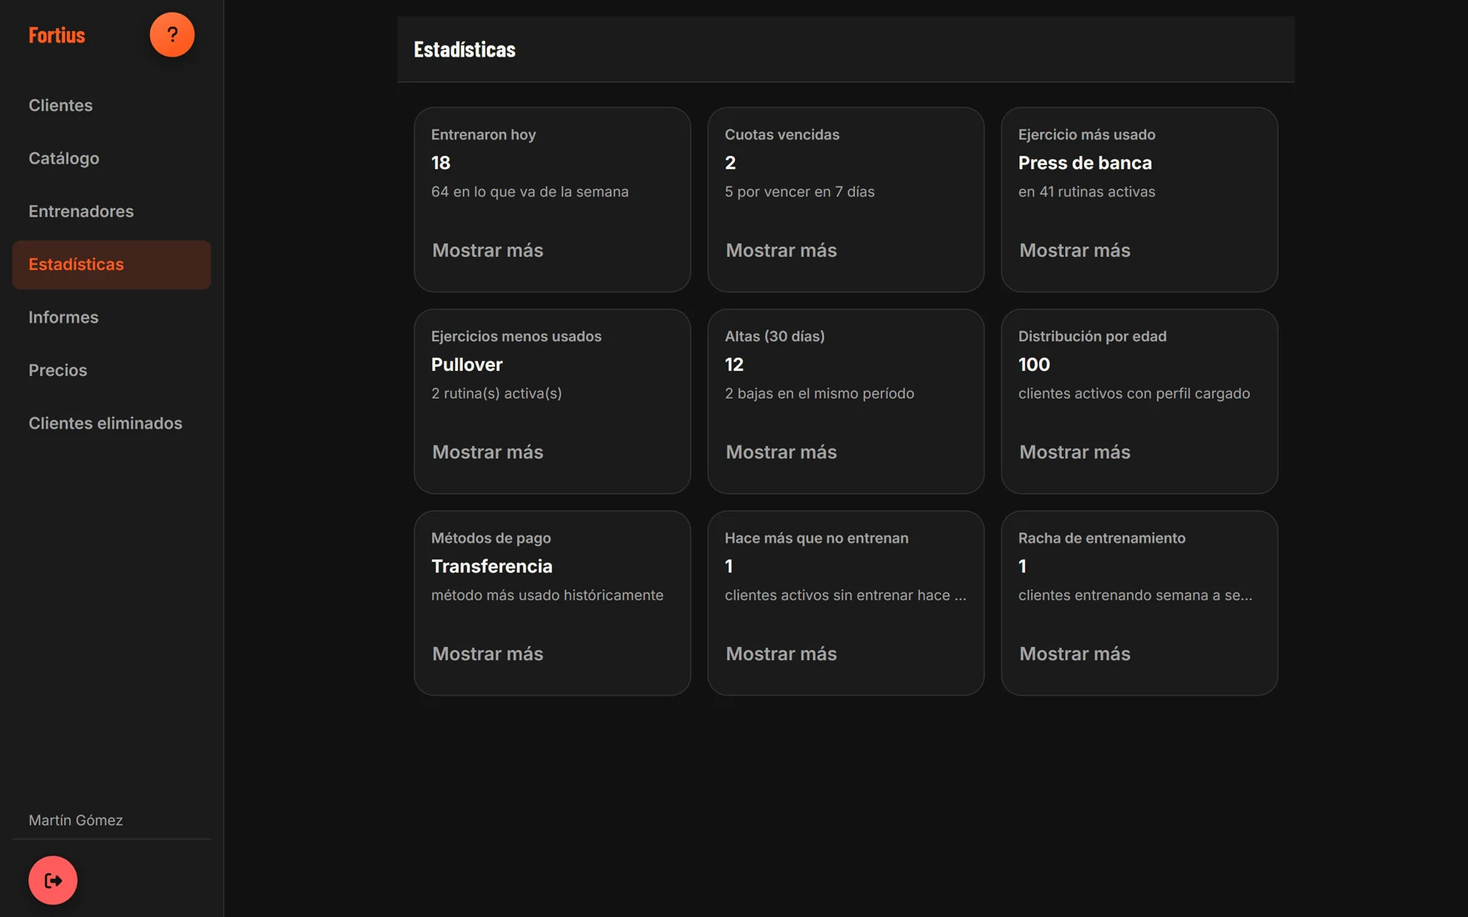
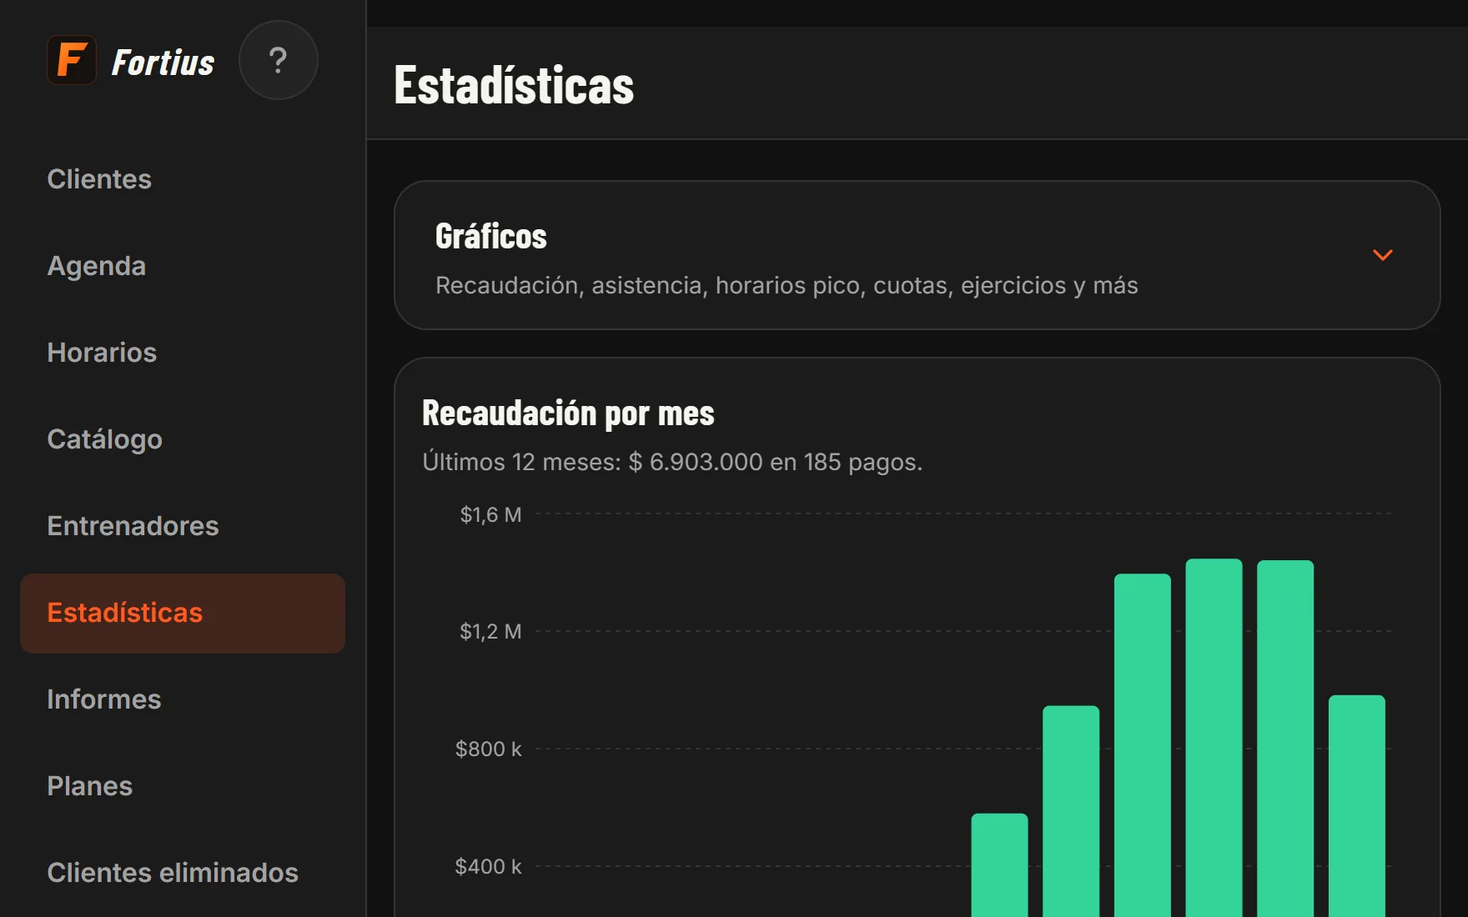
Novedades de la app: paquetes extra, gráficos y capturas nuevas
- Nueva sección "Paquetes extra" con Turnos y horarios (precio fijo por
  mes, a definir), capturas de la agenda y de "Mis turnos", y una tarjeta
  para pedir paquetes nuevos por WhatsApp.
- Nueva sección "Gráficos de tu gimnasio" con recaudación, días y horarios
  pico, estado de cuotas y altas y bajas.
- Portada con la pantalla nueva de Estadísticas y sus gráficos.
- Alumno: tarjeta "Su asistencia" (actividad, racha y calendario del mes)
  y la app instalable con el ícono del gimnasio y avisos.
- Planes por actividad y combos en el panel, el precio y las preguntas.

diff --git a/index.html b/index.html
@@ -4,7 +4,7 @@
 <meta charset="utf-8">
 <meta name="viewport" content="width=device-width, initial-scale=1, viewport-fit=cover">
 <title>Fortius: software para gimnasios y sus profes</title>
-<meta name="description" content="Fortius es el software para gimnasios: rutinas con un QR por rutina, cuotas, estadísticas e informe mensual en PDF. 20 días gratis, después lo mismo que 2 a 5 cuotas de tu gimnasio por mes.">
+<meta name="description" content="Fortius es el software para gimnasios: rutinas con un QR por rutina, planes por actividad, cuotas, estadísticas e informe mensual en PDF. 20 días gratis, después lo mismo que 2 a 5 cuotas de tu gimnasio por mes.">
 <meta name="site-kind" content="software">
 <meta name="page-type" content="software">
 <link rel="icon" type="image/svg+xml" href="assets/app/fortius.svg">
@@ -108,7 +108,14 @@
   /* pasos: capturas reales de la app en el panel de cada tarjeta */
   #rutinas .panel { --p-h: 336px; background: #121212; }
   @media (min-width: 640px) and (max-width: 1023px) { #rutinas { --h: 2; } }
-  @media (min-width: 1024px) { #rutinas .grid > .card, #alumno .grid > .card { grid-column: auto / span 4; } }
+  @media (min-width: 1024px) { #rutinas .grid > .card { grid-column: auto / span 4; } }
+  /* alumno: 4 capturas del celular. Desde 1280px, las cuatro en fila; entre 1024 y 1279px, de a dos con la
+     captura al ancho de un celular */
+  @media (min-width: 1280px) { #alumno .grid > .card { grid-column: auto / span 3; } }
+  @media (min-width: 1024px) and (max-width: 1279px) {
+    #alumno .grid > .card { grid-column: auto / span 6; }
+    #alumno .card > .panel { width: 300px; max-width: 100%; margin-inline: auto; }
+  }
   @media (min-width: 1024px) and (max-width: 1279px) { #rutinas .panel { --p-h: 250px; } }
   @media (max-width: 639px) { #rutinas .panel { --p-h: 260px; } }
   #rutinas .panel .frame__img { object-fit: cover; object-position: left top; }
@@ -124,6 +131,20 @@
   @media (min-width: 640px) and (max-width: 1023px) {
     #alumno .card > .panel { width: 320px; max-width: 100%; margin-inline: auto; }
   }
+  /* gráficos: cada tarjeta de la app entera (ya trae su fondo y su borde), sin recortes */
+  #graficos .card { background: transparent; border: 0; padding: 0; box-shadow: none; }
+  #graficos .card > .panel { --p-h: 0px; min-height: 0; flex: none; margin: 0; border-radius: 16px; background: #121212; box-shadow: 0 0 0 1px rgb(255 255 255 / .06); }
+  #graficos .panel .frame__img { position: static; display: block; width: 100%; height: auto; }
+  #graficos .panel::before, #graficos .panel::after { display: none; }
+  @media (min-width: 640px) { #graficos .grid > .card { grid-column: auto / span 6; } }
+
+  /* paquetes extra: la agenda (computadora) y "Mis turnos" (celular) dentro de sus tarjetas */
+  #extras .panel { background: #121212; }
+  #extras .panel::before, #extras .panel::after { display: none; }   /* sin el brillo del panel sobre la captura */
+  #extras .panel .frame__img { object-fit: cover; object-position: left top; }
+  #extras .panel--cel .frame__img { object-fit: contain; object-position: center top; }
+  @media (min-width: 1024px) { #extras .panel { --p-h: 380px; } }
+
   /* el QR entero, centrado sobre el mismo fondo del modal de la app (antes el recorte lo cortaba a la derecha) */
   #rutinas .panel--qr { background: #1b1b1b; }
   #rutinas .panel--qr .frame__img { object-fit: contain; object-position: center; }
@@ -169,7 +190,7 @@
   h2, .t-h2 { font-size: calc(var(--t-h2) * 1.18); line-height: 1.02; }
   .step-num { font-family: var(--font-display); font-weight: 700; }
 
-  /* franjas oscuras (el mundo de la app: fondo casi negro, naranja): Videos y "Lo que ve tu alumno",
+  /* franjas oscuras (el mundo de la app: fondo casi negro, naranja): Videos, "Lo que ve tu alumno" y Gráficos,
      alternadas con las claras. Las capturas oscuras del celular dejan de ser rectángulos negros sobre
      beige y pasan a fundirse con el fondo. */
   #videos .card, #alumno .card { background: var(--p-inv-surface); border-color: rgb(255 255 255 / .08); }
@@ -228,7 +249,7 @@
      deal: hero centred, nav nav-centre (nav-cards redealt: no photographs), close close-type, footer footer-columns,
            rhythm dark-band (the chapter), buttons solid, mark: the client's own logo (the F from the app), ground sage,
            effect grain-gradient in the hero window, moments none
-     screens: hero 1 · panel (app-frame) 1 · rutinas (steps) 1 · alumno (steps, capturas del celular) 1 · informes (chapter, dark band) 1 · preguntas (faq) 1 · footer.closing 1 -->
+     screens: hero 1 · panel (app-frame) 1 · rutinas (steps) 1 · alumno (steps, capturas del celular) 1 · informes (chapter) 1 · graficos (dark band, capturas de gráficos) 1 · extras (paquetes extra, plan cards) 1 · precio 1 · preguntas (faq) 1 · footer.closing 1 -->
 
 <header class="nav nav--centre">
   <div class="wrap nav__bar">
@@ -239,6 +260,7 @@
       <div class="nav__item"><a class="nav__link" href="#rutinas">Rutinas</a></div>
       <div class="nav__item"><a class="nav__link" href="#alumno">Alumno</a></div>
       <div class="nav__item"><a class="nav__link" href="#informes">Informes</a></div>
+      <div class="nav__item"><a class="nav__link" href="#extras">Extras</a></div>
       <div class="nav__item"><a class="nav__link" href="#precio">Precio</a></div>
       <div class="nav__item"><a class="nav__link" href="#preguntas">Preguntas</a></div>
     </nav>
@@ -275,35 +297,35 @@
     <div class="wrap">
       <div class="grid grid--top">
         <h2 class="span-5" id="panel-h">Cada alumno, su cuota y sus rutinas</h2>
-        <p class="span-6 start-7 muted">Buscás al alumno, ves si la cuota está al día y marcás el pago con el precio de su plan ya cargado. <a class="link" href="#preguntas">Ver cómo se cobra</a></p>
+        <p class="span-6 start-7 muted">Armás tus actividades (Musculación, Pilates, Spinning) con sus planes y descuentos por combo. Buscás al alumno, ves si la cuota está al día y marcás el pago con el monto de sus planes ya sumado. <a class="link" href="#preguntas">Ver cómo se cobra</a></p>
       </div>
-      <div class="ui app fill" data-visual role="img" aria-label="La lista de alumnos con el estado de su cuota y el perfil de Diego Ruiz con el pago de hoy marcado">
+      <div class="ui app fill" data-visual role="img" aria-label="La lista de alumnos con sus planes por actividad y el estado de su cuota, y el perfil de Diego Ruiz con el pago de hoy marcado">
         <div class="app__pane app__pane--list" aria-hidden="true">
           <div class="fx-bar"><b>Clientes</b><span class="sp"></span><small>100 activos</small></div>
           <div class="fx-busca">Buscar por nombre</div>
-          <div class="fx-fila is-on"><b>Diego Ruiz</b><span>Fijo, 3 días por semana</span><span class="fx-chip fx-chip--ok">Al día</span></div>
-          <div class="fx-fila"><b>Sofía Paz</b><span>Pase libre</span><span class="fx-chip fx-chip--venc">Vencida</span></div>
-          <div class="fx-fila"><b>Lucía Fernández</b><span>Fijo, 3 días por semana</span><span class="fx-chip fx-chip--ok">Al día</span></div>
-          <div class="fx-fila"><b>Tomás Gil</b><span>Fijo, 2 días por semana</span><span class="fx-chip fx-chip--venc">Vencida</span></div>
-          <div class="fx-fila"><b>Martina Ríos</b><span>Fijo, 4 días por semana</span><span class="fx-chip fx-chip--pv">Vence en 3 días</span></div>
-          <div class="fx-fila"><b>Nicolás Vega</b><span>Pase libre</span><span class="fx-chip fx-chip--ok">Al día</span></div>
-          <div class="fx-fila"><b>Camila Sosa</b><span>Fijo, 2 días por semana</span><span class="fx-chip fx-chip--ok">Al día</span></div>
-          <div class="fx-fila"><b>Julián Moreno</b><span>Fijo, 3 días por semana</span><span class="fx-chip fx-chip--pv">Vence en 6 días</span></div>
-          <div class="fx-fila"><b>Valentina Luna</b><span>Pase libre</span><span class="fx-chip fx-chip--ok">Al día</span></div>
+          <div class="fx-fila is-on"><b>Diego Ruiz</b><span>Musculación 3 días + Pilates 2 días</span><span class="fx-chip fx-chip--ok">Al día</span></div>
+          <div class="fx-fila"><b>Sofía Paz</b><span>Musculación, pase libre</span><span class="fx-chip fx-chip--venc">Vencida</span></div>
+          <div class="fx-fila"><b>Lucía Fernández</b><span>Pilates 3 días</span><span class="fx-chip fx-chip--ok">Al día</span></div>
+          <div class="fx-fila"><b>Tomás Gil</b><span>Musculación 2 días</span><span class="fx-chip fx-chip--venc">Vencida</span></div>
+          <div class="fx-fila"><b>Martina Ríos</b><span>Spinning 2 días + Musculación 2 días</span><span class="fx-chip fx-chip--pv">Vence en 3 días</span></div>
+          <div class="fx-fila"><b>Nicolás Vega</b><span>Musculación, pase libre</span><span class="fx-chip fx-chip--ok">Al día</span></div>
+          <div class="fx-fila"><b>Camila Sosa</b><span>Spinning 3 días</span><span class="fx-chip fx-chip--ok">Al día</span></div>
+          <div class="fx-fila"><b>Julián Moreno</b><span>Musculación 3 días</span><span class="fx-chip fx-chip--pv">Vence en 6 días</span></div>
+          <div class="fx-fila"><b>Valentina Luna</b><span>Pilates 2 días</span><span class="fx-chip fx-chip--ok">Al día</span></div>
         </div>
         <div class="app__pane app__pane--open" aria-hidden="true">
-          <div class="fx-bar"><b>Diego Ruiz</b><span class="sp"></span><small>Documento 32456789</small></div>
+          <div class="fx-bar"><b>Diego Ruiz</b><span class="sp"></span><small>Musculación 3 días + Pilates 2 días</small></div>
           <div class="fx-abierto">
             <div class="fx-tarjeta">
               <h4>Cuota</h4>
               <div class="fx-campos">
-                <div class="fx-campo">Monto cobrado ($)<div>40000</div></div>
+                <div class="fx-campo">Monto cobrado ($)<div>58500</div></div>
                 <div class="fx-campo">Método de pago<div>Transferencia</div></div>
               </div>
               <div class="fx-botones"><span class="fx-btn fx-btn--primario">Marcar como pagado</span><span class="fx-txt">Deshacer último pago</span></div>
               <div class="fx-pagos">
-                <div class="is-new">05/11/2026<span>$ 40.000 · Transferencia</span></div>
-                <div>02/10/2026<span>$ 40.000 · Efectivo</span></div>
+                <div class="is-new">05/11/2026<span>$ 58.500 · Transferencia</span></div>
+                <div>02/10/2026<span>$ 58.500 · Efectivo</span></div>
                 <div>01/09/2026<span>$ 38.000 · Efectivo</span></div>
                 <div>01/08/2026<span>$ 38.000 · Efectivo</span></div>
               </div>
@@ -378,13 +400,18 @@
     <div class="wrap">
       <div class="grid grid--top">
         <h2 class="span-5" id="alumno-h">Lo que ve tu alumno en su celular</h2>
-        <p class="span-6 start-7 muted">Entra con el QR y su documento, sin instalar nada. Desde ahí ve sus rutinas, su progreso y sus pagos.</p>
+        <p class="span-6 start-7 muted">Entra con el QR y su documento, sin descargar nada. Si quiere, la agrega al inicio del celular con el ícono de tu gimnasio y le llegan avisos, como cuando le cargás una rutina nueva. Ver cuántos días vino lo ayuda a no cortar la racha.</p>
       </div>
       <div class="grid" style="margin-top: var(--s-7)">
         <article class="card card--row span-4">
           <h3>Sus rutinas del día</h3>
           <p>Elige la rutina de hoy y ve cuándo vence su cuota.</p>
           <div class="panel"><img class="frame__img" src="assets/app/alumno-rutinas.webp" alt="Mis rutinas en el celular de Diego: Empuje, Tracción y Piernas, con 6 días para el vencimiento de su cuota" width="640" height="1359" loading="lazy" data-source="client" data-subject="Fortius, rutinas del alumno"></div>
+        </article>
+        <article class="card card--row span-4">
+          <h3>Su asistencia</h3>
+          <p>Los días que vino este mes y esta semana, su racha y el calendario del mes.</p>
+          <div class="panel"><img class="frame__img" src="assets/app/alumno-asistencia.webp" alt="Tu actividad en el celular de Natalia: 8 días este mes, 4 esta semana, racha de 24 semanas y 2,6 días por semana, con el calendario de noviembre debajo" width="640" height="1360" loading="lazy" data-source="client" data-subject="Fortius, asistencia del alumno"></div>
         </article>
         <article class="card card--row span-4">
           <h3>Su progreso</h3>
@@ -404,7 +431,7 @@
     <div class="wrap">
       <div class="grid grid--top">
         <h2 class="span-5" id="informes-h">Estadísticas e informe del mes</h2>
-        <p class="span-6 start-7 muted">Quién entrenó hoy, quién debe la cuota y quién dejó de venir. Cada mes se cierra solo en un informe que bajás en PDF. <a class="link" href="#preguntas">Ver qué incluye</a></p>
+        <p class="span-6 start-7 muted">Quién entrenó hoy, quién debe la cuota y quién dejó de venir, con gráficos de recaudación, altas y bajas y horarios pico. Cada mes se cierra solo en un informe que bajás en PDF. <a class="link" href="#graficos">Ver los gráficos</a></p>
       </div>
       <div class="frame frame--hero fill" style="margin-top: var(--s-8)">
         <img class="frame__img" src="assets/app/informes.webp" alt="La pantalla de Informes de Fortius con noviembre en curso y los meses cerrados para descargar en PDF" width="1760" height="794" loading="lazy" data-source="client" data-subject="Fortius, pantalla de Informes">
@@ -412,8 +439,70 @@
       <div class="grid" style="margin-top: var(--s-7)">
         <div class="span-3"><p class="t-card">Entrenaron hoy</p><p class="muted">Y en lo que va de la semana.</p></div>
         <div class="span-3"><p class="t-card">Cuotas vencidas</p><p class="muted">Y las que vencen en 7 días.</p></div>
-        <div class="span-3"><p class="t-card">Racha de entrenamiento</p><p class="muted">Semanas seguidas de cada alumno.</p></div>
+        <div class="span-3"><p class="t-card">Gráficos del gimnasio</p><p class="muted">Recaudación por mes y días y horarios pico.</p></div>
         <div class="span-3"><p class="t-card">Informe en PDF</p><p class="muted">Activos, asistencia y lo cobrado.</p></div>
+      </div>
+    </div>
+  </section>
+
+  <section class="section ground-inverse" id="graficos" aria-labelledby="graficos-h">
+    <div class="wrap">
+      <div class="grid grid--top">
+        <h2 class="span-5" id="graficos-h">Gráficos de tu gimnasio</h2>
+        <p class="span-6 start-7 muted">En Estadísticas, un desplegable con los gráficos: cuánto cobrás cada mes, qué días se llena el gimnasio, quién está al día y cuántos entran y se van. También asistencia por semana, ejercicios más usados, edades y métodos de pago.</p>
+      </div>
+      <div class="grid" style="margin-top: var(--s-7)">
+        <article class="card card--grafico span-6">
+          <div class="panel"><img class="frame__img" src="assets/app/grafico-recaudacion.webp" alt="Gráfico de barras de la recaudación por mes, de mayo a noviembre: $6.903.000 en 185 pagos en los últimos 12 meses" width="912" height="724" loading="lazy" data-source="client" data-subject="Fortius, gráfico de recaudación"></div>
+        </article>
+        <article class="card card--grafico span-6">
+          <div class="panel"><img class="frame__img" src="assets/app/grafico-pico.webp" alt="Gráfico de visitas por día de la semana: jueves y sábado son los días con más gente" width="912" height="862" loading="lazy" data-source="client" data-subject="Fortius, gráfico de días y horarios pico"></div>
+        </article>
+        <article class="card card--grafico span-6">
+          <div class="panel"><img class="frame__img" src="assets/app/grafico-cuotas.webp" alt="Gráfico de anillo con el estado de las cuotas: al día, por vencer en 7 días, vencidas y sin pagos registrados" width="912" height="725" loading="lazy" data-source="client" data-subject="Fortius, gráfico de estado de cuotas"></div>
+        </article>
+        <article class="card card--grafico span-6">
+          <div class="panel"><img class="frame__img" src="assets/app/grafico-altas.webp" alt="Gráfico de altas y bajas a 30, 60 y 90 días: 8, 9 y 11 altas contra 3, 4 y 6 bajas" width="912" height="724" loading="lazy" data-source="client" data-subject="Fortius, gráfico de altas y bajas"></div>
+        </article>
+      </div>
+    </div>
+  </section>
+
+  <section class="section" id="extras" aria-labelledby="extras-h">
+    <div class="wrap">
+      <div class="grid grid--top">
+        <h2 class="span-5" id="extras-h">Paquetes extra</h2>
+        <p class="span-6 start-7 muted">Lo que no todos los gimnasios usan va aparte: lo sumás solo si te sirve. Cada paquete tiene un precio fijo por mes que se suma al de Fortius.</p>
+      </div>
+      <div class="grid" style="margin-top: var(--s-7)">
+        <article class="card card--plan span-5">
+          <h3>Turnos y horarios</h3>
+          <p class="muted">Para las clases con cupo: Pilates, Spinning, funcional o lo que dictes.</p>
+          <p class="price"><span class="t-stat">A definir</span><span class="muted">precio fijo por mes</span></p>
+          <ul class="checks">
+            <li>Horarios de cada actividad por día, con su cupo, y días sin clases por feriado o cierre</li>
+            <li>Turnos fijos de cada alumno, hasta los días de su plan</li>
+            <li>Agenda de la semana con quién viene a cada clase</li>
+            <li>El alumno marca “No voy” y recupera la clase otro día donde haya lugar</li>
+            <li>Avisos al celular: clase suspendida, lugar libre para recuperar y quién avisó que no va</li>
+            <li>Gráfico de ocupación de cada horario</li>
+          </ul>
+        </article>
+        <article class="card card--row span-7">
+          <h3>La agenda de cada día</h3>
+          <p>Quién viene a cada clase, quién avisó que no va y quién recupera. Anotás a alguien o cerrás una clase con un toque.</p>
+          <div class="panel"><img class="frame__img" src="assets/app/turnos-agenda.webp" alt="La Agenda del miércoles 25 de noviembre: Pilates de 8 con una alumna que avisó que no va, Pilates de 18 con una alumna que recupera y Spinning de 19:15 con 8 de 12 lugares ocupados" width="1760" height="1880" loading="lazy" data-source="client" data-subject="Fortius, agenda de turnos"></div>
+        </article>
+        <article class="card card--row span-7">
+          <h3>El alumno avisa desde el celular</h3>
+          <p>Ve sus próximas clases y toca “No voy”. Ese lugar queda libre y se gana una clase para recuperar.</p>
+          <div class="panel panel--cel"><img class="frame__img" src="assets/app/turnos-alumno.webp" alt="Mis turnos en el celular de Natalia: Pilates el lunes 23, el miércoles 25 marcado como No voy y el viernes 27" width="640" height="1000" loading="lazy" data-source="client" data-subject="Fortius, Mis turnos del alumno"></div>
+        </article>
+        <article class="card card--plan span-5">
+          <h3>¿Necesitás otra cosa?</h3>
+          <p class="muted">Si tu gimnasio tiene una forma de trabajar que la app todavía no cubre, contanos. Lo vemos juntos y, si suma, lo armamos como un paquete nuevo.</p>
+          <a class="btn btn--secondary" href="https://wa.me/5493571313949?text=%C2%A1Hola%20equipo%20Fortius%21%20%F0%9F%92%AA%20Mi%20gimnasio%20necesita%20algo%20que%20no%20est%C3%A1%20en%20la%20app.%20%C2%BFLo%20charlamos%3F" target="_blank" rel="noopener">Contanos por WhatsApp</a>
+        </article>
       </div>
     </div>
   </section>
@@ -448,7 +537,7 @@
             <li><span class="rows__name">De 81 a 150 alumnos</span><span class="rows__value">4 cuotas</span></li>
             <li><span class="rows__name">Más de 150 alumnos</span><span class="rows__value">5 cuotas</span></li>
           </ul>
-          <p class="t-small muted">Cada cuota vale lo que tu segundo plan más caro, con un mínimo de $40.000 por cuota. Si subís tu cuota, el precio acompaña: no hay otros aumentos. Pagando 6 meses, 10% menos; 12 meses, 20% menos.</p>
+          <p class="t-small muted">Cada cuota vale lo que tu segundo plan más caro, con un mínimo de $40.000 por cuota. Cuentan los planes de todas tus actividades, sin los descuentos por combo. Si subís tu cuota, el precio acompaña: no hay otros aumentos. Pagando 6 meses, 10% menos; 12 meses, 20% menos. Los <a class="link" href="#extras">paquetes extra</a> se suman aparte.</p>
           <!-- Ejemplos con la regla de backend/src/config/precioFortius.js (mínimo POR cuota). -->
           <div class="plan-ejemplo">
             <p class="plan-ejemplo__titulo">Por ejemplo</p>
@@ -457,9 +546,11 @@
           </div>
           <ul class="checks">
             <li>Alumnos y cuotas, con aviso de vencimiento</li>
+            <li>Planes por actividad y descuentos por combo</li>
             <li>Rutinas desde tu catálogo, con video y un QR por rutina</li>
             <li>Registro de pesos y progreso del alumno</li>
-            <li>Estadísticas e informe mensual en PDF</li>
+            <li>Estadísticas con gráficos e informe mensual en PDF</li>
+            <li>App con el ícono de tu gimnasio y avisos al celular</li>
             <li>Varios entrenadores en la misma cuenta</li>
           </ul>
         </article>
@@ -476,9 +567,10 @@
           <a class="link" href="https://wa.me/5493571313949?text=%C2%A1Hola%20equipo%20Fortius%21%20%F0%9F%8F%8B%EF%B8%8F%20Tengo%20una%20consulta%20antes%20de%20sumar%20mi%20gimnasio.%20%C2%BFMe%20dan%20una%20mano%3F" target="_blank" rel="noopener">Escribinos por WhatsApp</a>
         </div>
         <div class="faq span-6 start-7">
-          <div class="faq__item"><h3>¿Mis alumnos tienen que instalar una app?</h3><p>No. Se abre en el navegador del celular al escanear el QR.</p></div>
+          <div class="faq__item"><h3>¿Mis alumnos tienen que instalar una app?</h3><p>No. Se abre en el navegador del celular al escanear el QR. Si quieren, la agregan al inicio con el ícono de tu gimnasio y reciben avisos.</p></div>
           <div class="faq__item"><h3>¿Cómo entra el alumno la primera vez?</h3><p>Pone su documento una vez y entra directo durante 30 días.</p></div>
           <div class="faq__item"><h3>¿Cómo sé quién debe la cuota?</h3><p>Vence 30 días después del último pago y aparece en Cuotas vencidas.</p></div>
+          <div class="faq__item"><h3>¿Sirve si tengo Pilates, Spinning u otras clases?</h3><p>Sí. Cargás cada actividad con sus planes y precios, y descuentos si combinan. Para turnos con cupo está el paquete <a class="link" href="#extras">Turnos y horarios</a>.</p></div>
           <div class="faq__item"><h3>¿Puedo cargar mis propios ejercicios?</h3><p>Sí. El catálogo es de tu gimnasio, con categorías y video.</p></div>
           <div class="faq__item"><h3>¿Qué pasa cuando terminan los 20 días?</h3><p>Si te sirve, pagás lo mismo que 2 a 5 cuotas de tu gimnasio por mes. Si no, no pagás nada.</p></div>
           <div class="faq__item"><h3>¿Puede haber varios entrenadores?</h3><p>Sí. Cada profe entra con su cuenta y ve los mismos alumnos.</p></div>
@@ -505,8 +597,8 @@
           <p class="footer__lede">Rutinas, cuotas y asistencia de tu gimnasio.</p>
         </div>
         <div class="span-2 footer__col"><h4>Panel</h4><ul><li><a href="#panel">Alumnos</a></li><li><a href="#panel">Cuotas</a></li></ul></div>
-        <div class="span-2 footer__col"><h4>Rutinas</h4><ul><li><a href="#rutinas">Catálogo</a></li><li><a href="#rutinas">QR por rutina</a></li><li><a href="#alumno">App del alumno</a></li></ul></div>
-        <div class="span-2 footer__col"><h4>Precio</h4><ul><li><a href="#precio">2 a 5 cuotas por mes</a></li><li><a href="#preguntas">Preguntas</a></li></ul></div>
+        <div class="span-2 footer__col"><h4>Rutinas</h4><ul><li><a href="#rutinas">Catálogo</a></li><li><a href="#graficos">Gráficos</a></li><li><a href="#rutinas">QR por rutina</a></li><li><a href="#alumno">App del alumno</a></li></ul></div>
+        <div class="span-2 footer__col"><h4>Precio</h4><ul><li><a href="#precio">2 a 5 cuotas por mes</a></li><li><a href="#extras">Paquetes extra</a></li><li><a href="#preguntas">Preguntas</a></li></ul></div>
         <div class="span-2 footer__col"><h4>Contacto</h4><ul><li><a href="mailto:fortiusgymapp@gmail.com?subject=Consulta%20sobre%20Fortius">fortiusgymapp<wbr>@gmail.com</a></li><li><a href="https://wa.me/5493571313949?text=%C2%A1Hola%20equipo%20Fortius%21%20%F0%9F%8F%8B%EF%B8%8F%20Tengo%20una%20consulta%20antes%20de%20sumar%20mi%20gimnasio.%20%C2%BFMe%20dan%20una%20mano%3F" target="_blank" rel="noopener">WhatsApp 3571 31-3949</a></li></ul></div>
       </div>
       <div class="footer__legal">
